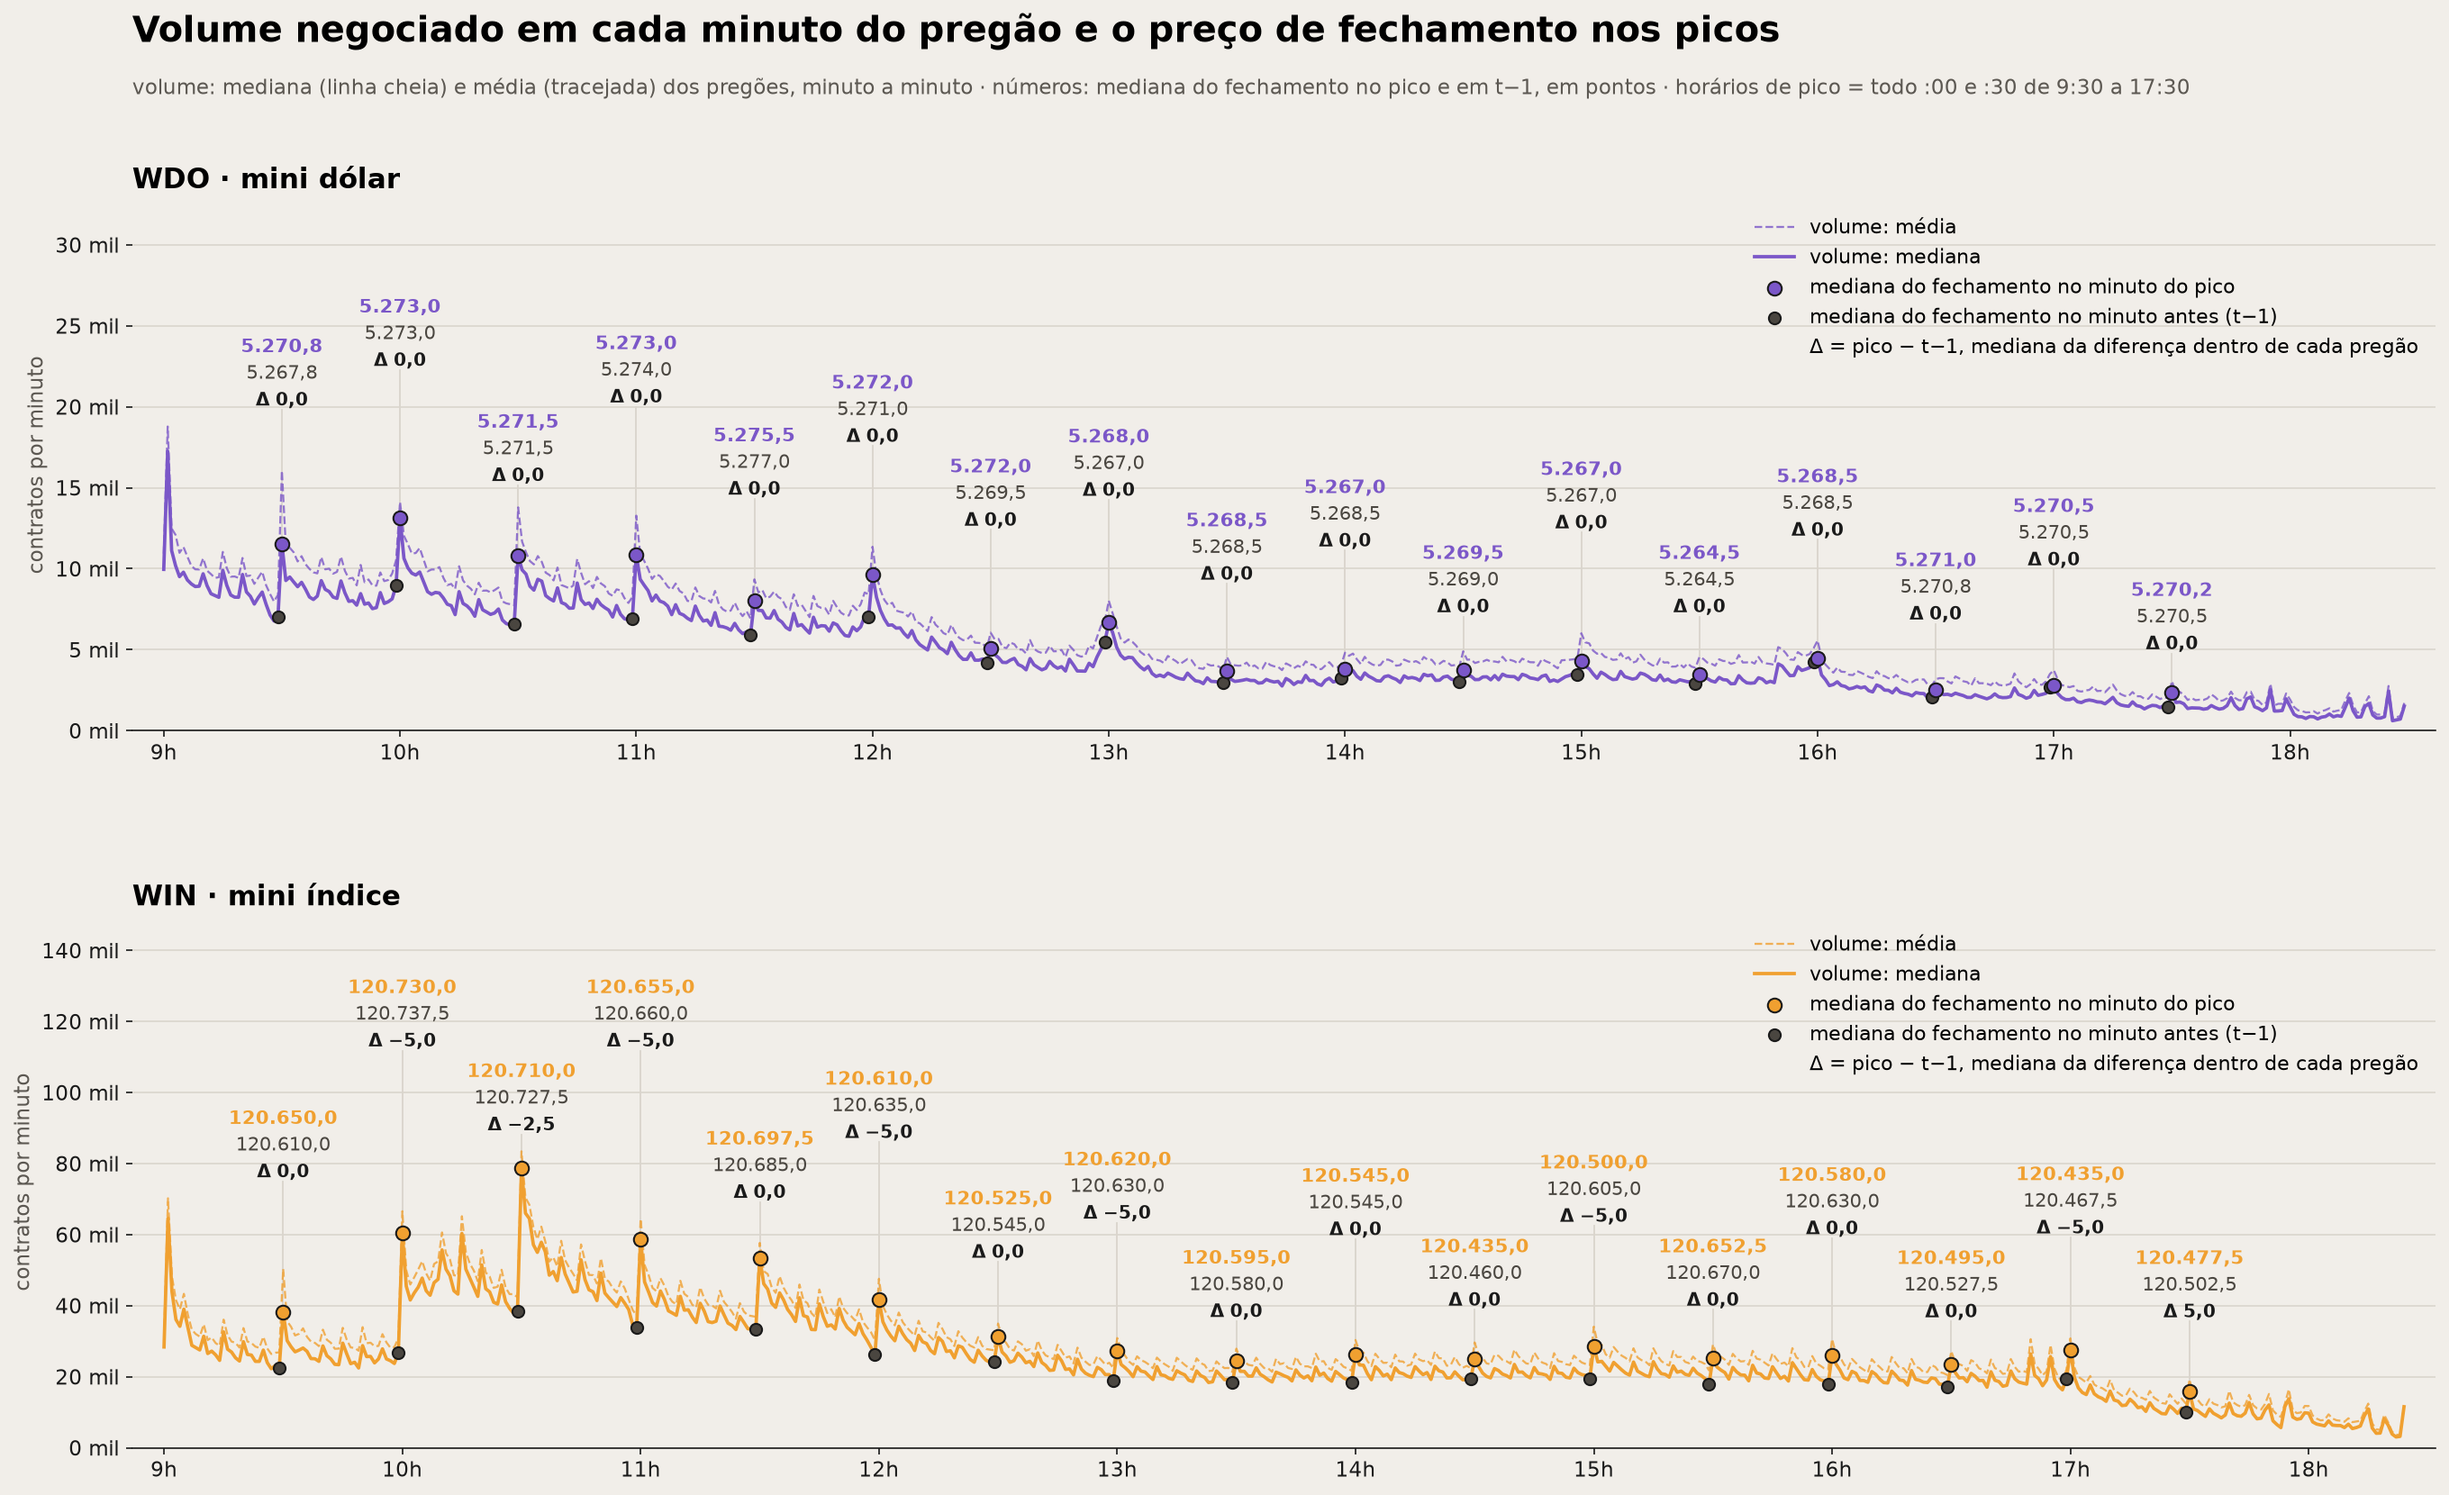
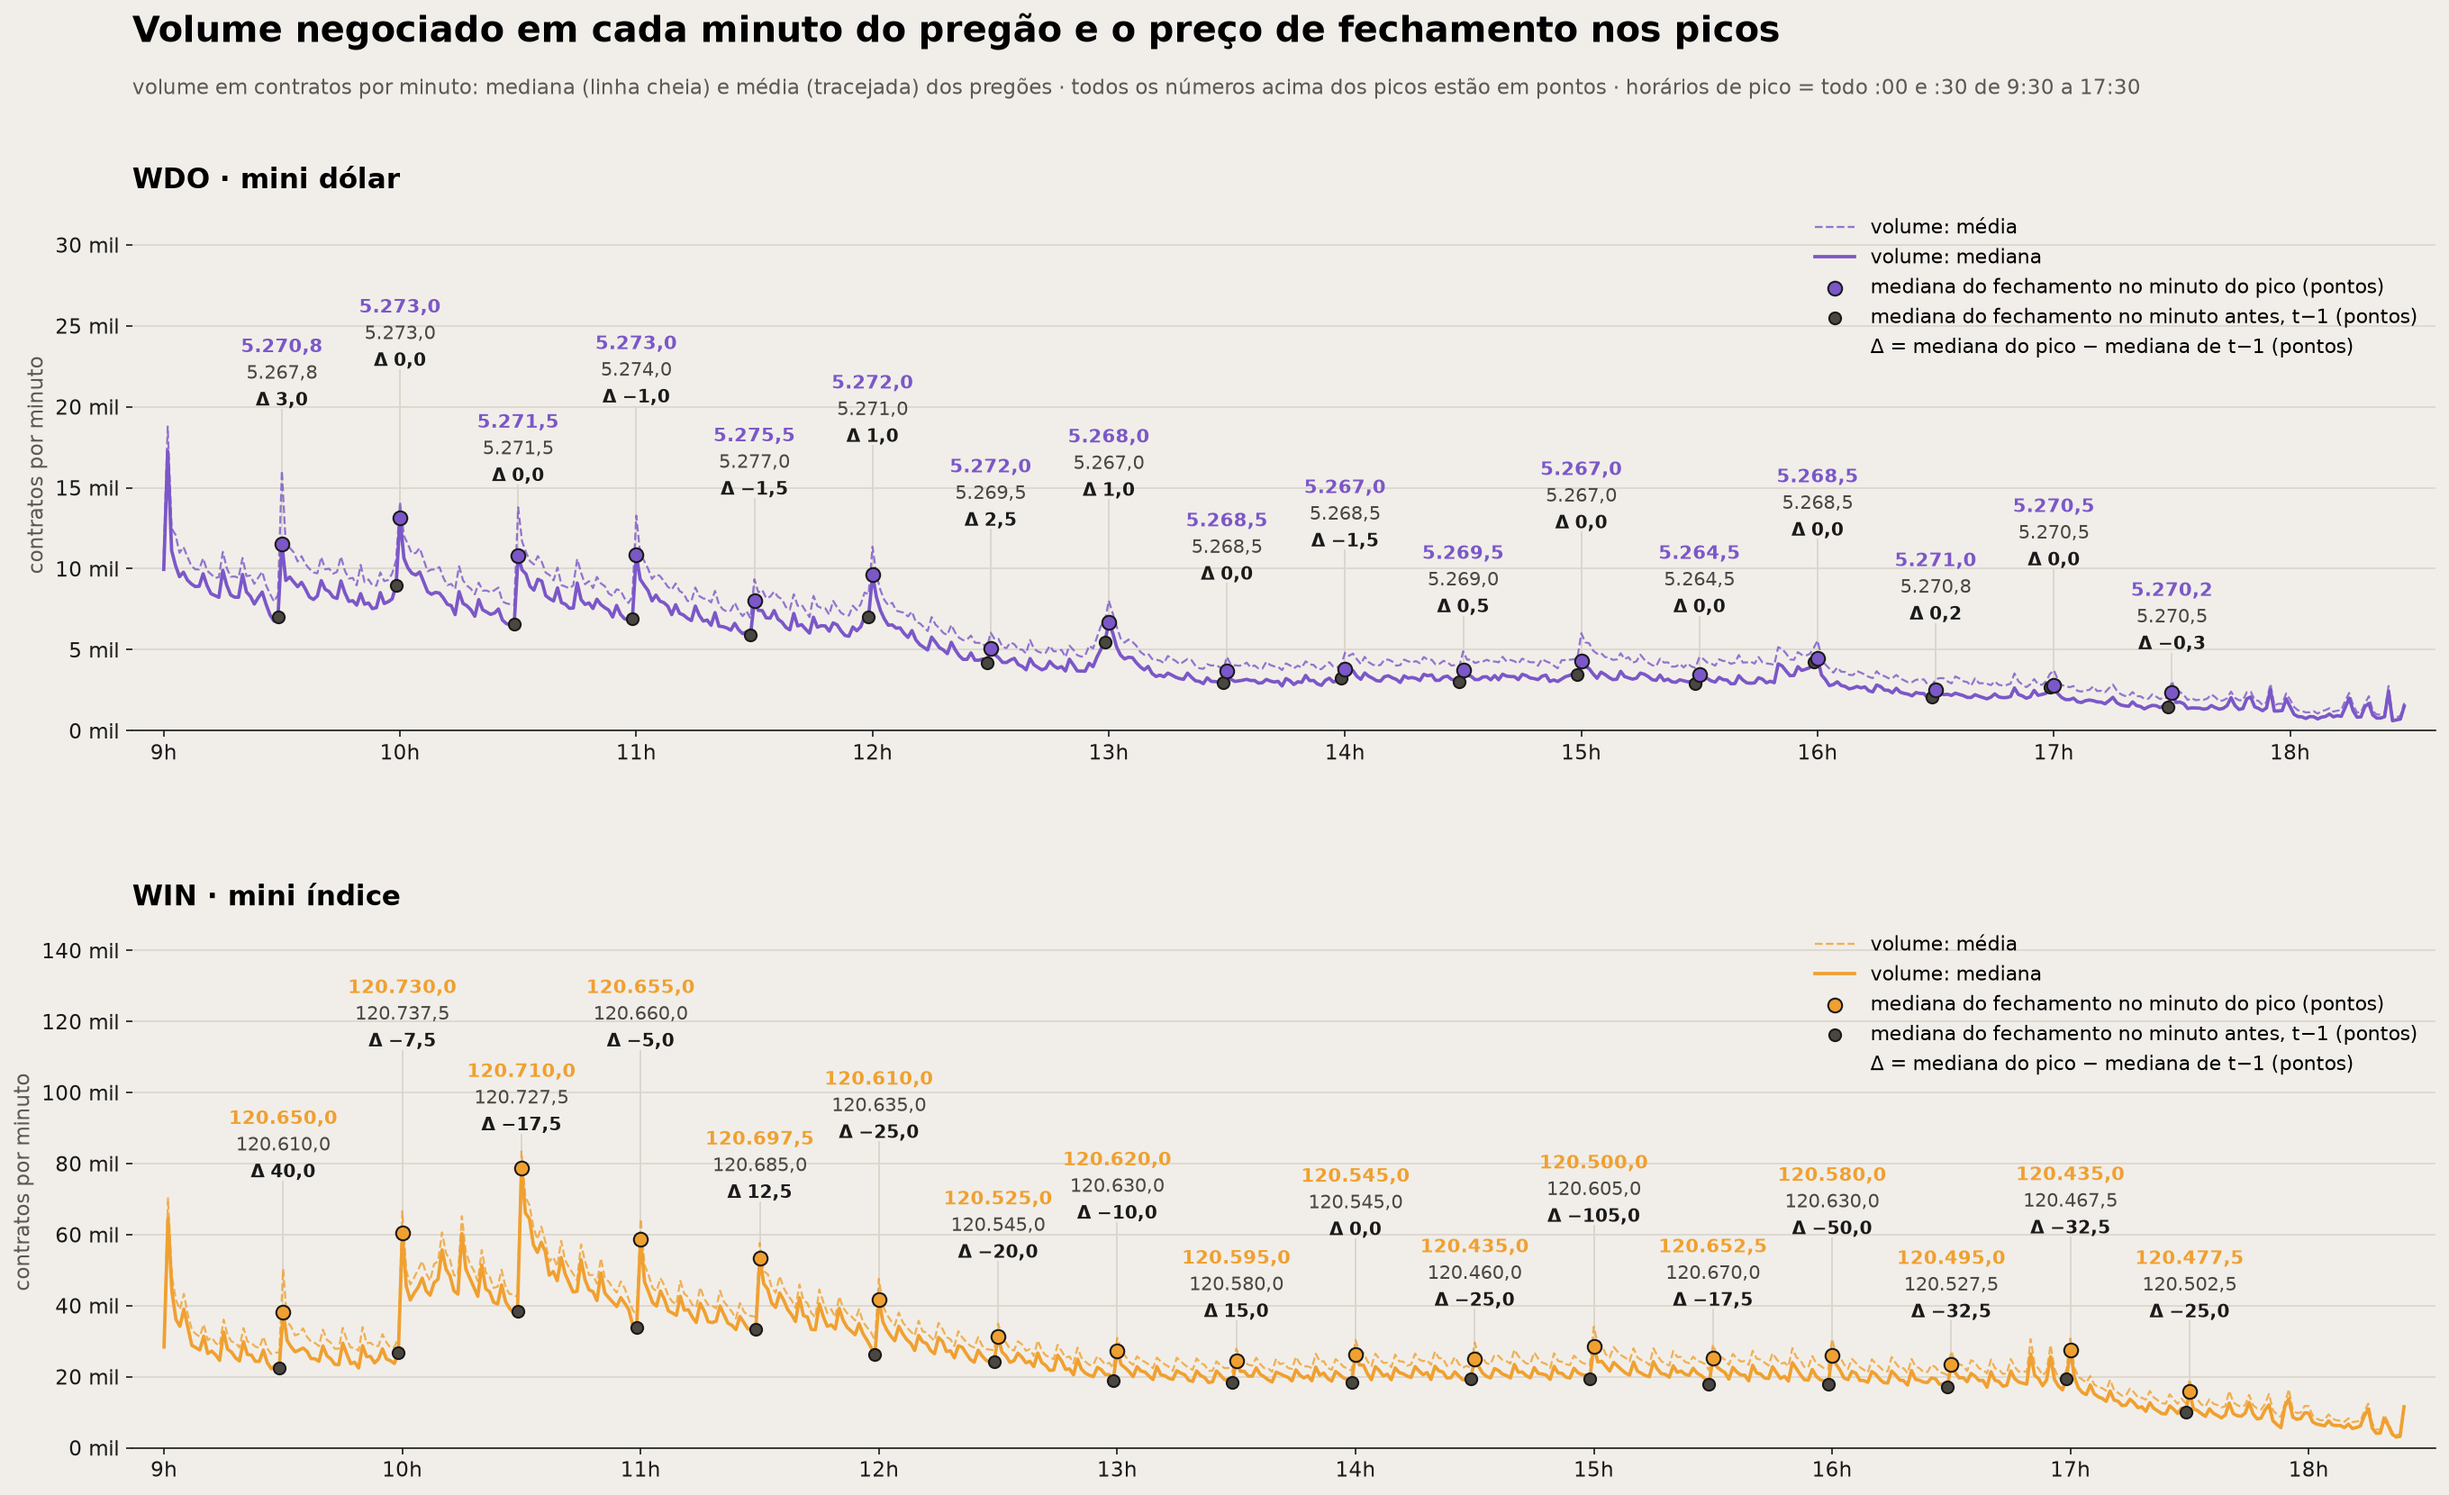
feat(bigplayer): parte 2, picos do dia com unidade na legenda e Δ como subtração das medianas mostradas

diff --git a/bigplayer/pt2/03_minuto_antes_volume.py b/bigplayer/pt2/03_minuto_antes_volume.py
@@ -440,7 +440,8 @@ plt.show()
 # ## 10. Dia inteiro: mediana do FECHAMENTO no pico e no minuto antes (t−1), e a diferença
 # Todos os :00 e :30 de 9:30 a 17:30. Preço = fechamento do minuto (não o preço médio).
 # - pico e t−1: mediana do fechamento entre os pregões que têm os dois minutos;
-# - Δ: mediana, entre os pregões, de (fechamento no pico − fechamento em t−1) dentro de cada pregão.
+# - Δ: mediana do pico − mediana de t−1 (a subtração dos dois números mostrados). Não é a variação típica de um
+#   dia: a mediana da diferença dentro de cada pregão fica em `x_y_picos_<ativo>.csv` e no gráfico x_y_comparacao.
 
 # %%
 ALL_PEAKS = [time(h, m) for h in range(9, 18) for m in (0, 30)][1:]
@@ -459,7 +460,7 @@ for ax, (asset, name) in zip(axes, ASSETS.items()):
     for i, t in enumerate(ALL_PEAKS):
         before = (datetime.combine(date(2000, 1, 1), t) - timedelta(minutes=1)).time()
         d = pd.DataFrame({"x": close[t], "y": close[before]}).dropna()
-        diff = (d["x"] - d["y"]).median()
+        diff = float(f"{d['x'].median():.1f}") - float(f"{d['y'].median():.1f}")   # bate com os números mostrados
         xp = minutes_since_nine(t)
         ax.scatter([xp - 1], [med[before]], s=40, color=before_color, edgecolor=INK, zorder=4)
         ax.scatter([xp], [med[t]], s=55, color=COLOR[asset], edgecolor=INK, zorder=4)
@@ -472,9 +473,9 @@ for ax, (asset, name) in zip(axes, ASSETS.items()):
                 color=before_color)
         ax.text(xp, base + top * 0.19, br_level(d["x"].median()), ha="center", va="bottom", fontsize=10,
                 fontweight="bold", color=COLOR[asset])
-    ax.scatter([], [], s=55, color=COLOR[asset], edgecolor=INK, label="mediana do fechamento no minuto do pico")
-    ax.scatter([], [], s=40, color=before_color, edgecolor=INK, label="mediana do fechamento no minuto antes (t−1)")
-    ax.plot([], [], " ", label="Δ = pico − t−1, mediana da diferença dentro de cada pregão")
+    ax.scatter([], [], s=55, color=COLOR[asset], edgecolor=INK, label="mediana do fechamento no minuto do pico (pontos)")
+    ax.scatter([], [], s=40, color=before_color, edgecolor=INK, label="mediana do fechamento no minuto antes, t−1 (pontos)")
+    ax.plot([], [], " ", label="Δ = mediana do pico − mediana de t−1 (pontos)")
     ax.legend(frameon=False, loc="upper right", fontsize=10.5)
     hours = range(9, 19)
     ax.set_xticks([(h - 9) * 60 for h in hours], [f"{h}h" for h in hours])
@@ -485,8 +486,8 @@ for ax, (asset, name) in zip(axes, ASSETS.items()):
     ax.set_title(f"{asset} · {name}", loc="left", fontsize=15, fontweight="bold")
 fig.suptitle("Volume negociado em cada minuto do pregão e o preço de fechamento nos picos", x=0.125, y=0.995,
              ha="left", fontsize=19, fontweight="bold")
-fig.text(0.125, 0.945, "volume: mediana (linha cheia) e média (tracejada) dos pregões, minuto a minuto · números: "
-         "mediana do fechamento no pico e em t−1, em pontos · horários de pico = todo :00 e :30 de 9:30 a 17:30",
+fig.text(0.125, 0.945, "volume em contratos por minuto: mediana (linha cheia) e média (tracejada) dos pregões · todos os números acima "
+         "dos picos estão em pontos · horários de pico = todo :00 e :30 de 9:30 a 17:30",
          fontsize=11, color=INK_2)
 fig.savefig(FIGURES / "picos_dia_fechamento.png", dpi=150, bbox_inches="tight")
 plt.show()
